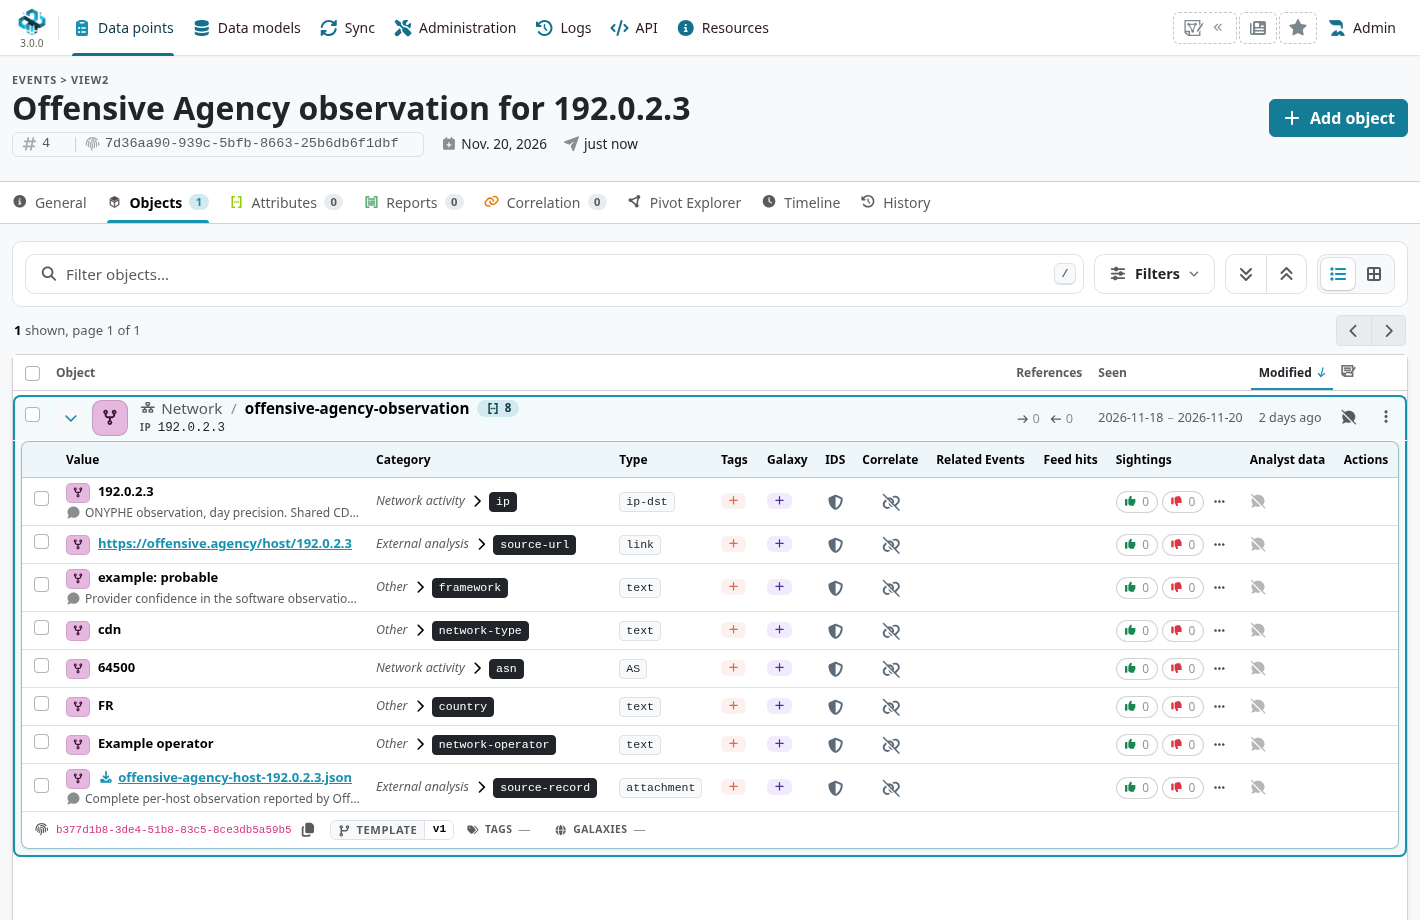
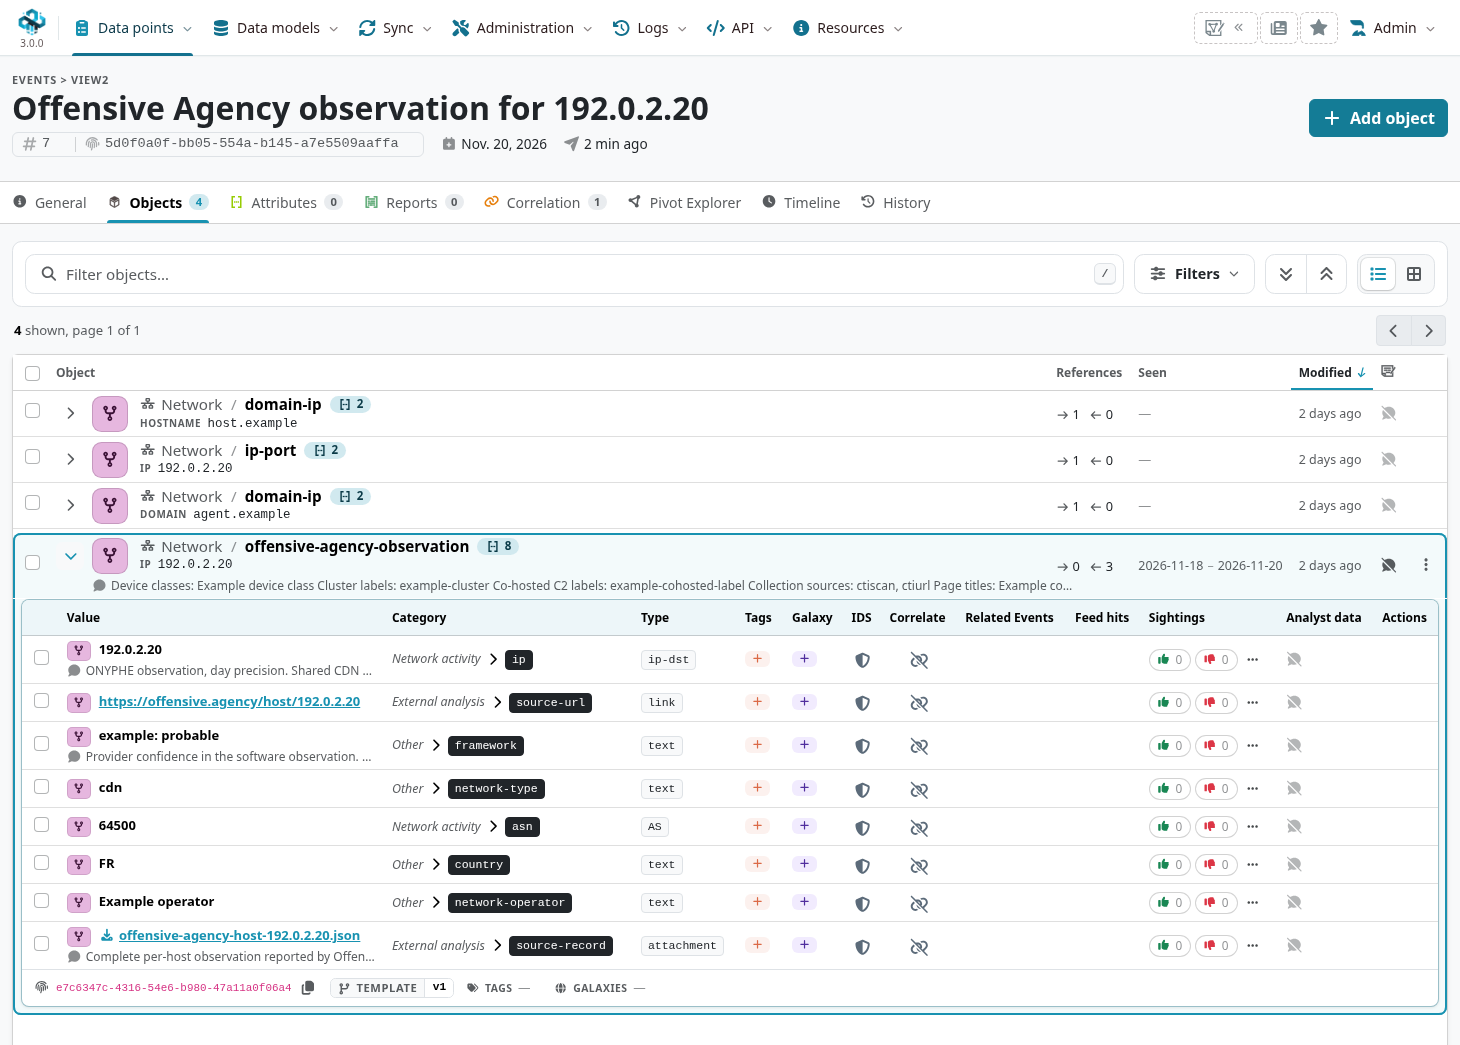
Document Offensive Agency host history and IP expansion

diff --git a/_posts/2026-11-22-Offensive-Agency-in-MISP.md b/_posts/2026-11-22-Offensive-Agency-in-MISP.md
@@ -2,7 +2,7 @@
 layout: post
 title: "Monitoring agentic framework exposure with Offensive Agency and MISP"
 date: 2026-11-22 15:30:00 +0100
-description: "How the Offensive Agency gathering module turns public exposure statistics into MISP events and supports checks against an approved asset inventory."
+description: "How to import Offensive Agency statistics and host history into MISP, monitor an asset inventory, and enrich a single IP address during triage."
 ---
 
 In [my previous post]({{ '/2026/11/From_SATAN_to_Agentic_Attacks.html' | relative_url }}), I wrote about the infrastructure that makes agentic attacks possible. One practical question for defenders is which interfaces these frameworks expose to the Internet and whether any of our own assets appear in those observations.
@@ -15,14 +15,15 @@ Thanks to Fafner (\_KeyZee\_) for making the Offensive Agency tracker and its da
 
 ## From the tracker to a MISP event
 
-I maintain `misp-modules` and developed the `offensive_agency` gathering module to put Fafner’s data to work in MISP. I wanted a daily view of exposure across the tracker and a separate way to check addresses in an inventory. The initial module is on `misp-modules` main, and MISP’s `3.0_wip` branch can use it as a feed source. The module fetches the provider’s data and builds a ZIP with a standard MISP feed manifest and event files. MISP checks the archive size and SHA-256 checksum, then hands the events to its normal feed importer.[^versions]
+I maintain `misp-modules` and developed the `offensive_agency` gathering module to put Fafner’s data to work in MISP. I started with daily statistics and inventory checks. The current module on `misp-modules` main can also import the complete host export. MISP’s `3.0_wip` branch can use it as a feed source. The module builds a ZIP with a standard MISP feed manifest and event files. MISP checks the archive size and SHA-256 checksum, then hands the events to its normal feed importer.[^versions]
 
-The module has two collection modes:
+The gathering module has three collection modes.
 
 - **Exposure statistics.** Use an empty parameters object (`{}`). The module fetches the public statistics snapshot and creates one event per source date. The event contains the headline counts and a JSON attachment with the breakdowns and daily series.
 - **Approved asset inventory.** Supply individual IP addresses in `asset_ips`. The module asks the provider for observations of those addresses and creates an event for each match. A missing address produces no event. A match can show when the provider first and last observed the software, the provider’s confidence, and the recorded network type.
+- **Full host history.** Set `all_hosts` to `true` and leave `asset_ips` empty. The module imports one event per IP from the historical export, including hosts last seen outside the seven-day active window.
 
-Both modes use local `misp-gathering` tags for the collector and the source. I wrote about the history of those structured vocabularies in [Machine tags, from social bookmarking to MISP taxonomies]({{ '/machine-tags/' | relative_url }}).
+All three modes use local `misp-gathering` tags for the collector and the source. I wrote about the history of those structured vocabularies in [Machine tags, from social bookmarking to MISP taxonomies]({{ '/machine-tags/' | relative_url }}).
 
 ## Set up the gathering feed
 
@@ -67,19 +68,35 @@ The 22 November 2026 statistics snapshot counted **7,873 active IPs** and **8,06
 
 *The imported statistics event with both local provenance tags.*
 
-## What an inventory observation looks like in MISP
+## Import the full host history
 
-The public export and the per-host API share the same host fields, and the per-host response also includes `services`. The module now groups the triage fields in an `offensive-agency-observation` object and attaches the complete per-host JSON as `source-record`. [Public hosts export](https://offensive.agency/api/hosts.json) · [Host record import](https://github.com/MISP/misp-modules/pull/1172) · [Gathering module PR](https://github.com/MISP/misp-modules/pull/1173) · [Object template PR](https://github.com/MISP/misp-objects/pull/609)
-
-For the walkthrough I used a synthetic response for `192.0.2.3`, a documentation address. In the feed settings above, I replaced the empty `parameters` object with this one. On an operational feed, use addresses from your approved inventory.
+Create a separate gathering feed using the same setup with these parameters.
 
 ```json
-{"asset_ips": ["192.0.2.3"]}
+{"all_hosts": true}
 ```
 
-The imported object has eight attributes. These cover the IP address, source link, network type, country, operator, ASN (using MISP’s `AS` type), framework and confidence, and the downloadable JSON. The object and its IP attribute carry the first and last observation dates at UTC day precision. MISP also stored both local collection tags on the event.
+The module reads the historical export in one request and limits the decoded JSON to 64 MiB. Each event records the first and last dates reported for that IP. The same IP gets distinct event UUIDs in history and inventory mode so both records can coexist. The bulk event preserves the export row, and the inventory event keeps the richer per-IP response, including `services` when the provider supplies it.
 
-[![MISP Objects tab showing the Offensive Agency observation, its eight attributes and the downloadable JSON]({{ '/assets/offensive-agency-misp/misp-asset-observation.png' | relative_url }})]({{ '/assets/offensive-agency-misp/misp-asset-observation.png' | relative_url }})
+The live run in the module PR produced 8,062 events. I used a two-row synthetic export for the example below. The October observation shows what a host outside the active window looks like in the feed. [Full-history gathering and IP expansion](https://github.com/MISP/misp-modules/pull/1174)
+
+[![MISP host history feed preview with synthetic observations from October and November]({{ '/assets/offensive-agency-misp/misp-host-history-preview.png' | relative_url }})]({{ '/assets/offensive-agency-misp/misp-host-history-preview.png' | relative_url }})
+
+*The full-history preview shows one event per IP, using the last observation date as the event date.*
+
+## What an inventory observation looks like in MISP
+
+Both host feeds group the triage fields in an `offensive-agency-observation` object and attach the complete source row as `source-record`. Linked `domain-ip` objects represent reported domains and reverse DNS names. Linked `ip-port` objects record the ports and identify the frameworks seen on each port. [Object template](https://github.com/MISP/misp-objects/pull/609)
+
+For the walkthrough I used a synthetic per-IP response for the documentation address `192.0.2.20`. In the feed settings above, I replaced the empty `parameters` object with this one. On an operational feed, use addresses from your approved inventory.
+
+```json
+{"asset_ips": ["192.0.2.20"]}
+```
+
+The main observation in this example has eight attributes. They cover the IP address, source link, network type, country, operator, ASN (using MISP’s `AS` type), framework and confidence, and the downloadable JSON. The observation and its IP attribute carry the first and last dates at UTC day precision. The event also has two `domain-ip` objects, one for each DNS name, and an `ip-port` object for port 443.
+
+[![MISP Objects tab showing the Offensive Agency observation, linked DNS and port objects, and the source-record download]({{ '/assets/offensive-agency-misp/misp-asset-observation.png' | relative_url }})]({{ '/assets/offensive-agency-misp/misp-asset-observation.png' | relative_url }})
 
 *The synthetic asset event in MISP. The `source-record` attachment preserves the details behind the summary.*
 
@@ -87,7 +104,7 @@ Here’s the complete 18-field JSON I downloaded from MISP, formatted for readab
 
 ```json
 {
-  "ip": "192.0.2.3",
+  "ip": "192.0.2.20",
   "first_seen": "2026-11-18",
   "last_seen": "2026-11-20",
   "kind": "cdn",
@@ -117,13 +134,23 @@ Here’s the complete 18-field JSON I downloaded from MISP, formatted for readab
 }
 ```
 
+## Look up an IP during triage
+
+I also added **Offensive Agency Lookup** (`offensive_agency_lookup`) for the times I’m already investigating an IP in a MISP event. Enable it under **Enrichment**. From an `ip-src` or `ip-dst` attribute, open its actions menu, select **Enrich**, and choose `offensive_agency_lookup`. It queries the provider’s per-IP endpoint without an API key. [Expansion module documentation](https://github.com/MISP/misp-modules/blob/b495a41d7bc4172492b8dd7b864375c4133b5387/documentation/expansion/offensive_agency_lookup.md)
+
+A match returns an observation with a `describes` reference to the original IP attribute, any related DNS and port objects, and the complete per-IP JSON. Review the result before importing the selected items into the event. A missing record yields no new observation.
+
+[![MISP expansion results for a synthetic IP with the Offensive Agency observation, DNS and port objects]({{ '/assets/offensive-agency-misp/misp-ip-expansion.png' | relative_url }})]({{ '/assets/offensive-agency-misp/misp-ip-expansion.png' | relative_url }})
+
+*The expansion results for `192.0.2.20` before import, with the original IP and the objects returned by the lookup.*
+
 ## How defenders can use the feed
 
-I’d run the two feeds on the regular fetch schedule. The daily statistics show which frameworks are becoming more visible in the tracker. A separate inventory feed keeps the team focused on observations of its own assets.
+I’d schedule the statistics feed to track changes in reported exposure and the inventory feed to check my own assets. The history feed gives an investigation a record of older sightings. The expansion fits an individual case where I want dates, DNS names and ports for an IP already in my event.
 
 If a match shows an exposed console, check who owned the address on the observation date and whether the service was meant to be public. Compare any hostnames and ports in `source-record` with your inventory and logs, especially when the IP belongs to a shared CDN. If you confirm an unexpected exposure, work with the owner to restrict access, verify the change in your own systems, and watch for later sightings.
 
-The local `misp-gathering:source="offensive.agency"` tag makes the observations easy to find in MISP. Each match is a lead to review, so the module leaves `to_ids` off. The provider’s confidence describes the software it observed, while the operator’s intent remains unknown.
+The local `misp-gathering:source="offensive.agency"` tag makes feed events easy to find in MISP. The gathering and expansion modules leave `to_ids` off on the attributes they create. The provider’s confidence describes the software it observed, while the operator’s intent remains unknown.
 
 ## A first experiment with gathering modules
 
@@ -131,8 +158,8 @@ I built this as a first experiment with the new `gathering` module type in `misp
 
 [^source]: Offensive Agency explains the source data, seven-day active window, confidence levels, and coverage limits. [Tracker methodology](https://offensive.agency/about) · [Statistics](https://offensive.agency/stats)
 
-[^versions]: I ran the first walkthrough with MISP `6c6e4c5` on `3.0_wip` and misp-modules `668d9a6` on `main`. I used the same MISP instance with the updated collector and observation template for the inventory example. [MISP branch snapshot](https://github.com/MISP/MISP/tree/6c6e4c5c7f93a47e8213277ad43b2c90550c8d28) · [Initial gathering module PR](https://github.com/MISP/misp-modules/pull/1169)
+[^versions]: I ran the statistics walkthrough with MISP `6c6e4c5` on `3.0_wip` and misp-modules `668d9a6` on `main`. The updated screenshots use the same MISP instance and misp-modules `b495a41`, which includes full-history gathering and IP expansion. [MISP branch snapshot](https://github.com/MISP/MISP/tree/6c6e4c5c7f93a47e8213277ad43b2c90550c8d28) · [Updated module snapshot](https://github.com/MISP/misp-modules/tree/b495a41d7bc4172492b8dd7b864375c4133b5387)
 
-[^setup]: The gathering guide documents the feed contract, local provenance tags, and revision handling. [Gathering module guide](https://github.com/MISP/misp-modules/blob/668d9a68971fb09deaada74c456bc505fdc3423d/documentation/mkdocs/gathering-guide.md)
+[^setup]: The gathering guide documents the feed contract, local provenance tags, and revision handling. [Gathering module guide](https://github.com/MISP/misp-modules/blob/b495a41d7bc4172492b8dd7b864375c4133b5387/documentation/mkdocs/gathering-guide.md#offensive-agency)
 
-[^download]: In the pinned core snapshot `CurlClient` replaced the callback that writes the ZIP to disk. I corrected the callback selection locally and enforced the byte limit during streaming. MISP then checked the downloaded file’s size and SHA-256 before extraction. [HTTP client](https://github.com/MISP/MISP/blob/6c6e4c5c7f93a47e8213277ad43b2c90550c8d28/app/Lib/Tools/CurlClient.php#L352-L405) · [Archive validation](https://github.com/MISP/MISP/blob/6c6e4c5c7f93a47e8213277ad43b2c90550c8d28/app/Lib/Tools/GatheringFeedTool.php#L145-L150)
+[^download]: In the pinned core snapshot `CurlClient` replaced the callback that writes the ZIP to disk. I used the proposed streaming fix in the test instance. MISP still checks the downloaded file’s size and SHA-256 before extraction. [MISP core fix](https://github.com/MISP/MISP/pull/11312) · [Archive validation](https://github.com/MISP/MISP/blob/6c6e4c5c7f93a47e8213277ad43b2c90550c8d28/app/Lib/Tools/GatheringFeedTool.php#L145-L150)
